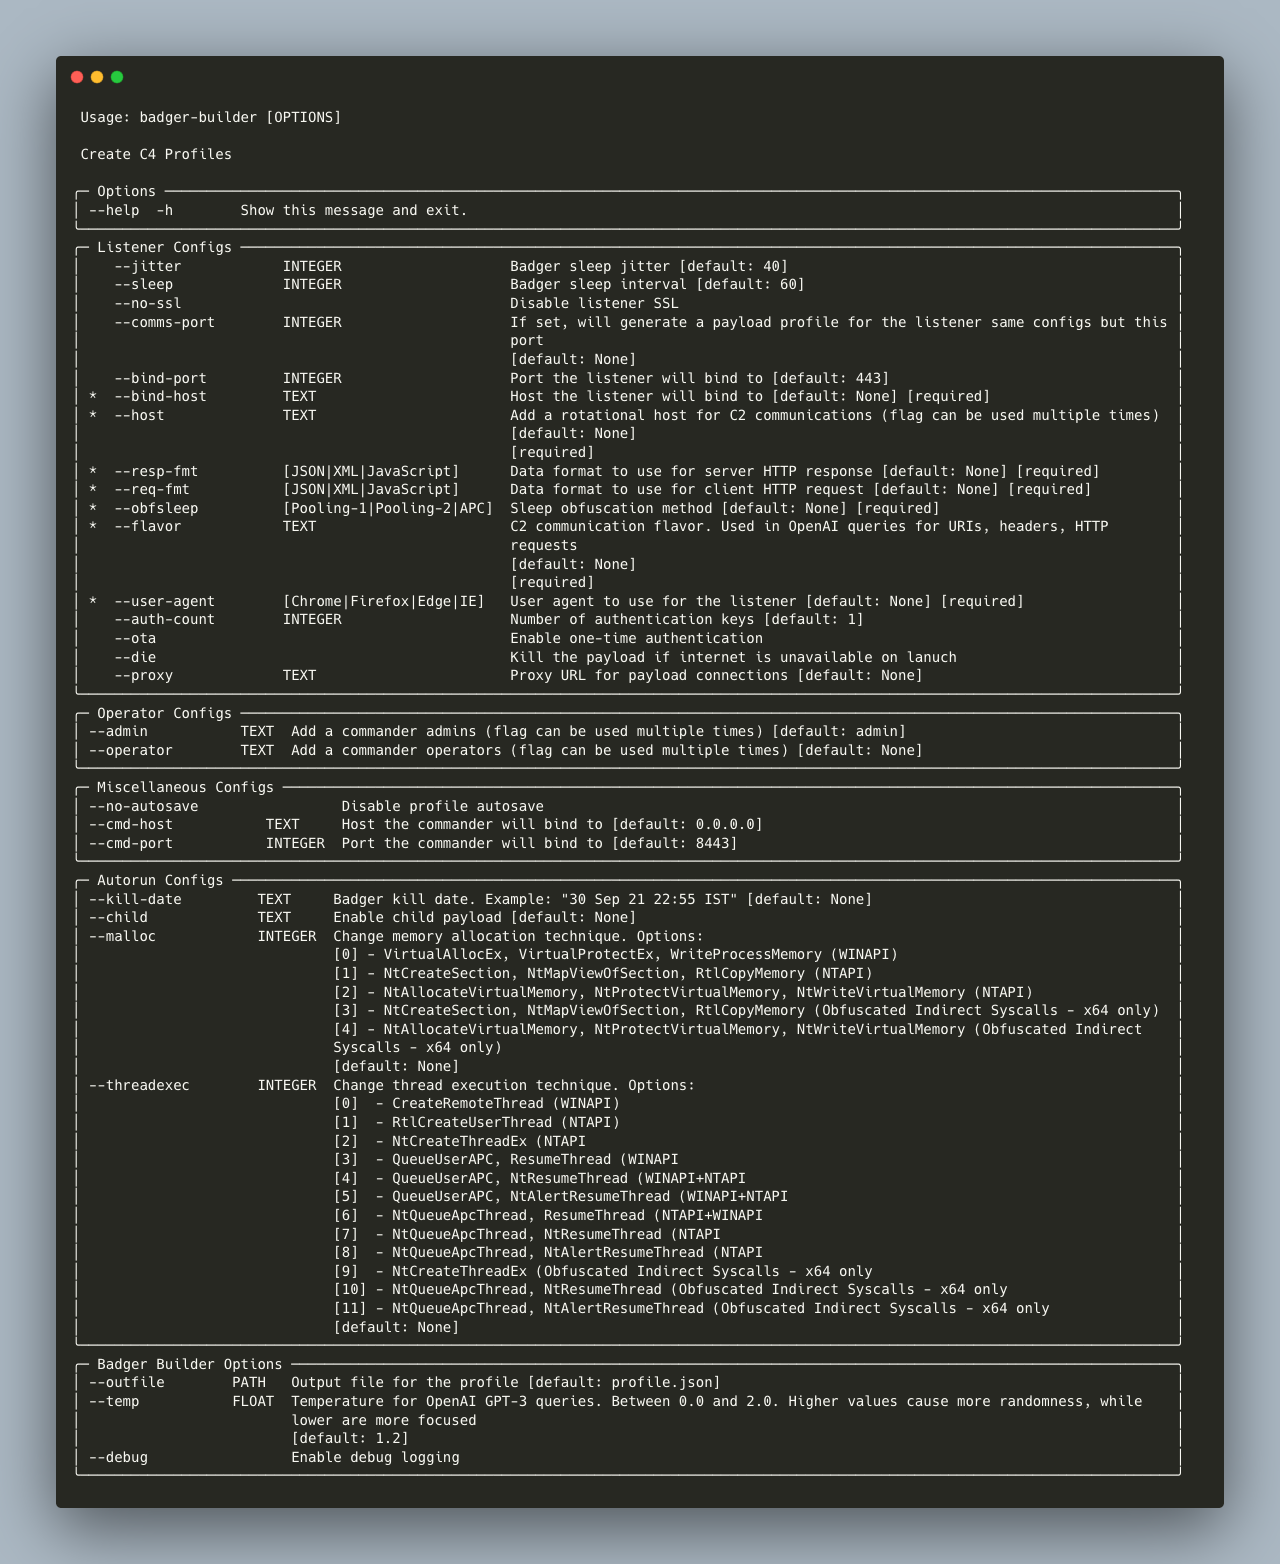
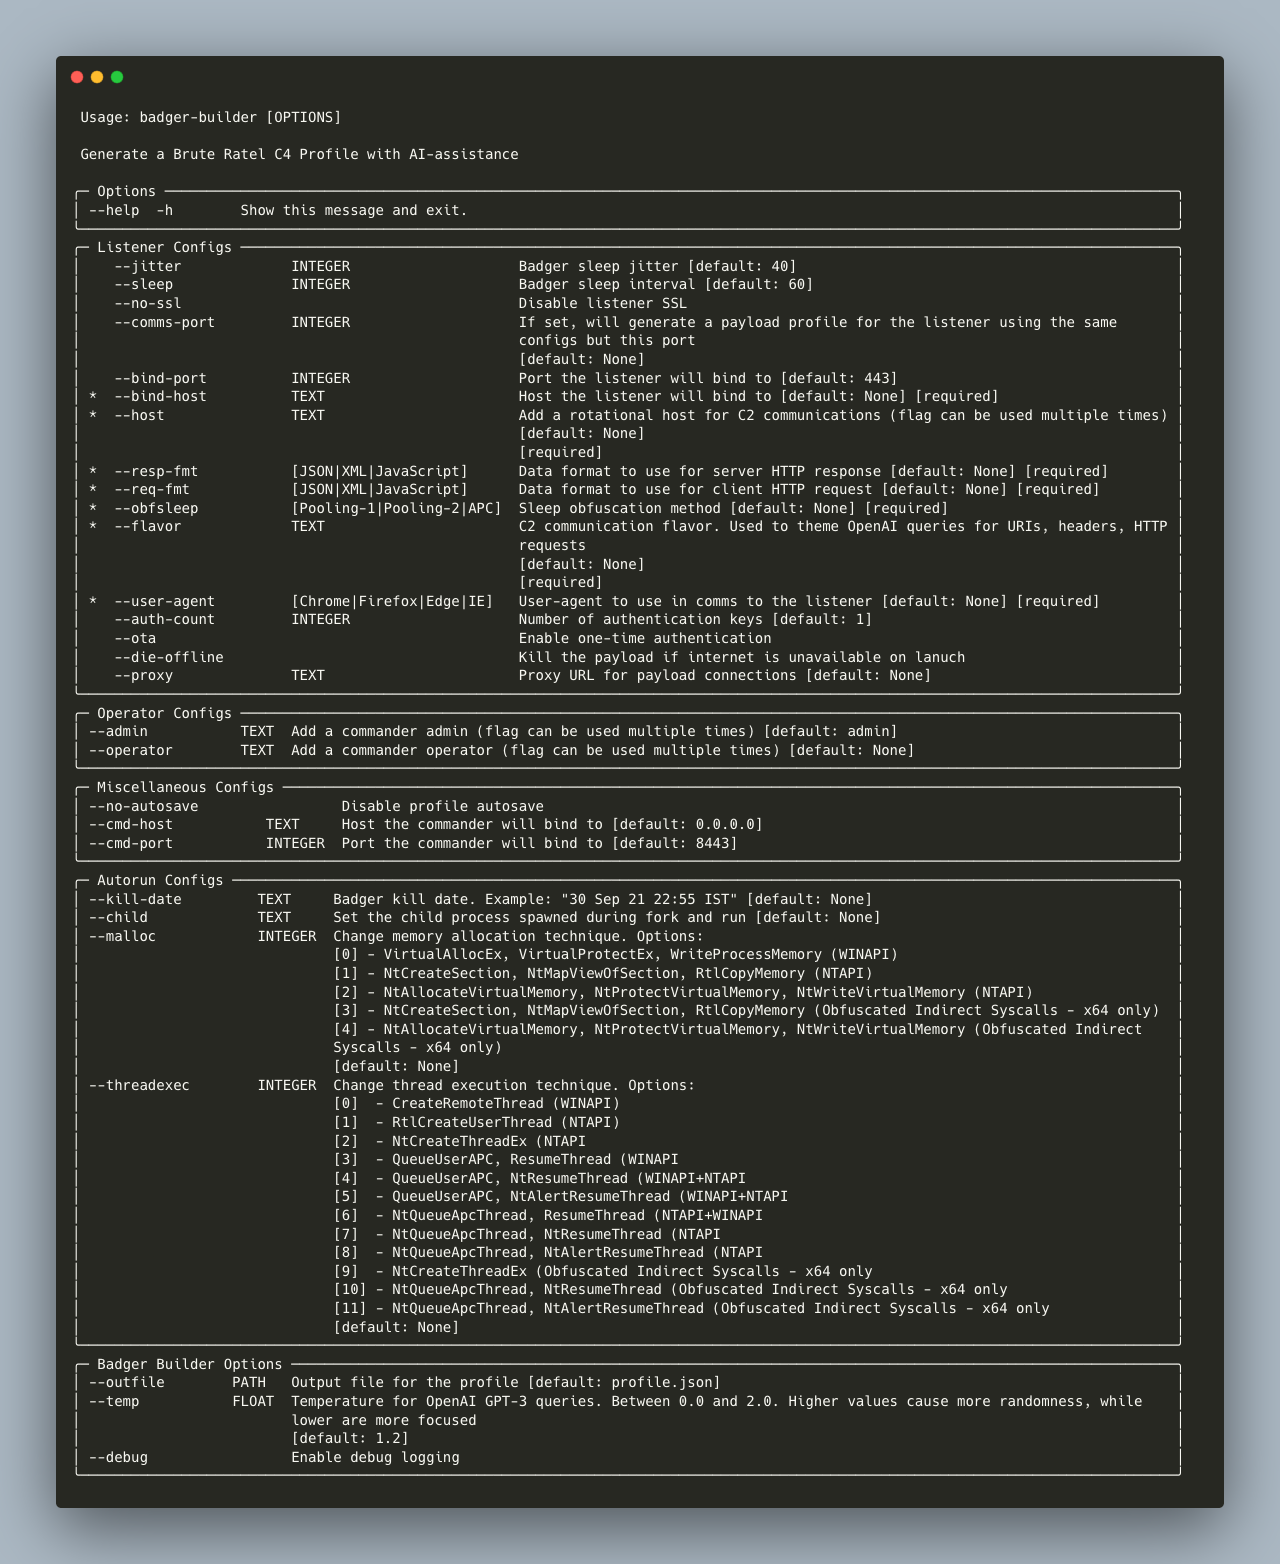
fixes

diff --git a/badger_builder/__main__.py b/badger_builder/__main__.py
@@ -19,29 +19,29 @@ app = typer.Typer(
 )
 
 
-@app.command(no_args_is_help=True, help='Create C4 Profiles')
+@app.command(no_args_is_help=True, help='Generate a Brute Ratel C4 Profile with AI-assistance')
 def main(
     # listener profile configurations
     jitter:         int         = typer.Option(40, '--jitter', help='Badger sleep jitter', rich_help_panel='Listener Configs'),
     sleep:          int         = typer.Option(60, '--sleep', help='Badger sleep interval', rich_help_panel='Listener Configs'),
     disable_ssl:    bool        = typer.Option(False, '--no-ssl', help='Disable listener SSL', rich_help_panel='Listener Configs'),
-    comms_port:     int         = typer.Option(None, '--comms-port', help='If set, will generate a payload profile for the listener same configs but this port', rich_help_panel='Listener Configs'),
+    comms_port:     int         = typer.Option(None, '--comms-port', help='If set, will generate a payload profile for the listener using the same configs but this port', rich_help_panel='Listener Configs'),
     bind_port:      int         = typer.Option(443, '--bind-port', help='Port the listener will bind to', rich_help_panel='Listener Configs'),
     bind_host:      str         = typer.Option(..., '--bind-host', help='Host the listener will bind to', rich_help_panel='Listener Configs'),
     hosts:          List[str]   = typer.Option(..., '--host', help='Add a rotational host for C2 communications (flag can be used multiple times)', rich_help_panel='Listener Configs'),
     response_type:  DataFormat  = typer.Option(..., '--resp-fmt', help='Data format to use for server HTTP response', rich_help_panel='Listener Configs', case_sensitive=False),
     request_type:   DataFormat  = typer.Option(..., '--req-fmt', help='Data format to use for client HTTP request', rich_help_panel='Listener Configs', case_sensitive=False),
     obfsleep:       ObfSleep    = typer.Option(..., '--obfsleep', help='Sleep obfuscation method', rich_help_panel='Listener Configs', case_sensitive=False),
-    flavor:         str         = typer.Option(..., '--flavor', help='C2 communication flavor. Used in OpenAI queries for URIs, headers, HTTP requests', rich_help_panel='Listener Configs'),
-    user_agent:     UserAgent   = typer.Option(..., '--user-agent', help='User agent to use for the listener', rich_help_panel='Listener Configs', case_sensitive=False),
+    flavor:         str         = typer.Option(..., '--flavor', help='C2 communication flavor. Used to theme OpenAI queries for URIs, headers, HTTP requests', rich_help_panel='Listener Configs'),
+    user_agent:     UserAgent   = typer.Option(..., '--user-agent', help='User-agent to use in comms to the listener', rich_help_panel='Listener Configs', case_sensitive=False),
     auth_count:     int         = typer.Option(1, '--auth-count', help='Number of authentication keys', rich_help_panel='Listener Configs'),
     ota:            bool        = typer.Option(False, '--ota', help='Enable one-time authentication', rich_help_panel='Listener Configs'),
-    die:            bool        = typer.Option(False, '--die', help='Kill the payload if internet is unavailable on lanuch', rich_help_panel='Listener Configs'),
+    die:            bool        = typer.Option(False, '--die-offline', help='Kill the payload if internet is unavailable on lanuch', rich_help_panel='Listener Configs'),
     proxy:          str         = typer.Option(None, '--proxy', help='Proxy URL for payload connections', rich_help_panel='Listener Configs'),
     
     # operator configurations
-    admins:         List[str]   = typer.Option(['admin'], '--admin', help='Add a commander admins (flag can be used multiple times)', rich_help_panel='Operator Configs'),
-    operators:      List[str]   = typer.Option(None, '--operator', help='Add a commander operators (flag can be used multiple times)', rich_help_panel='Operator Configs'),
+    admins:         List[str]   = typer.Option(['admin'], '--admin', help='Add a commander admin (flag can be used multiple times)', rich_help_panel='Operator Configs'),
+    operators:      List[str]   = typer.Option(None, '--operator', help='Add a commander operator (flag can be used multiple times)', rich_help_panel='Operator Configs'),
     
     # miscellaneous configurations
     no_autosave:    bool        = typer.Option(False, '--no-autosave', help='Disable profile autosave', rich_help_panel='Miscellaneous Configs'),
@@ -50,7 +50,7 @@ def main(
     
     # autorun configurations
     killdate:       str         = typer.Option(None, '--kill-date', help='Badger kill date. Example: "30 Sep 21 22:55 IST"', rich_help_panel='Autorun Configs'),
-    child:          str        = typer.Option(None, '--child', help='Enable child payload', rich_help_panel='Autorun Configs'),
+    child:          str        = typer.Option(None, '--child', help='Set the child process spawned during fork and run', rich_help_panel='Autorun Configs'),
     malloc:         int        = typer.Option(None, '--malloc', help=utils.MALLOC_HELP, rich_help_panel='Autorun Configs'),
     threadexec:     int        = typer.Option(None, '--threadexec', help=utils.THREADEX_HELP, rich_help_panel='Autorun Configs'),
 
